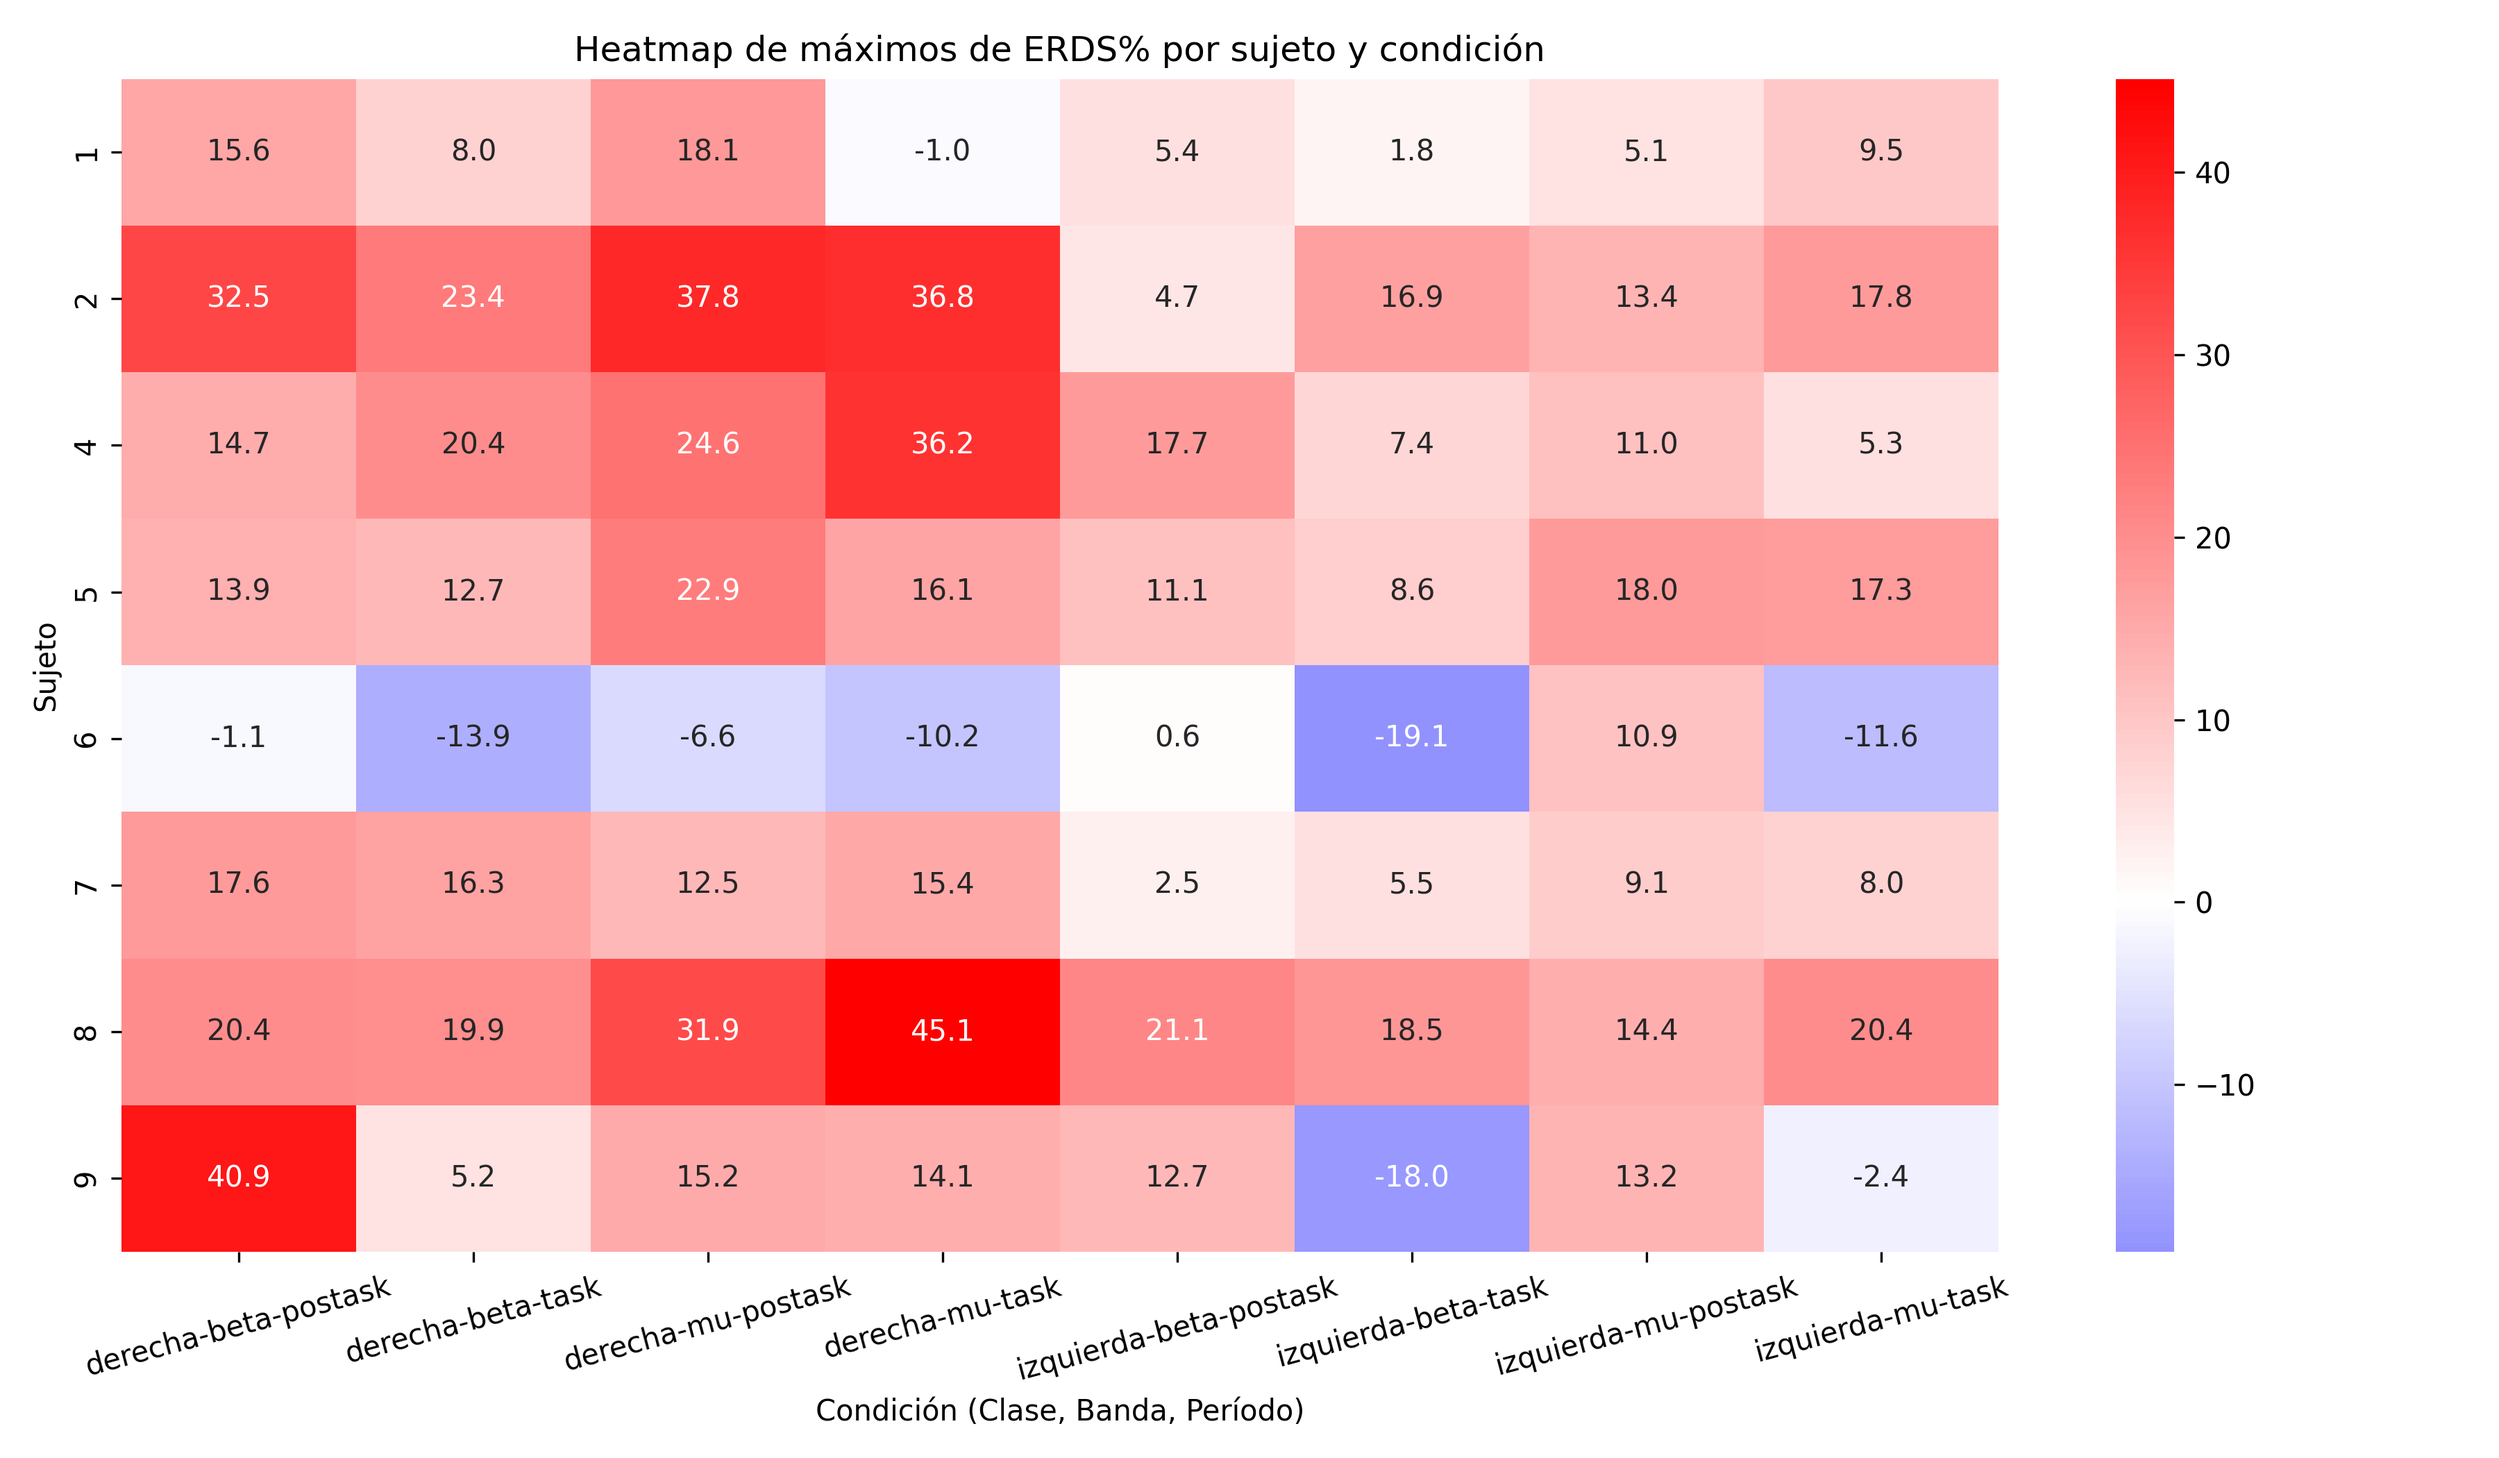
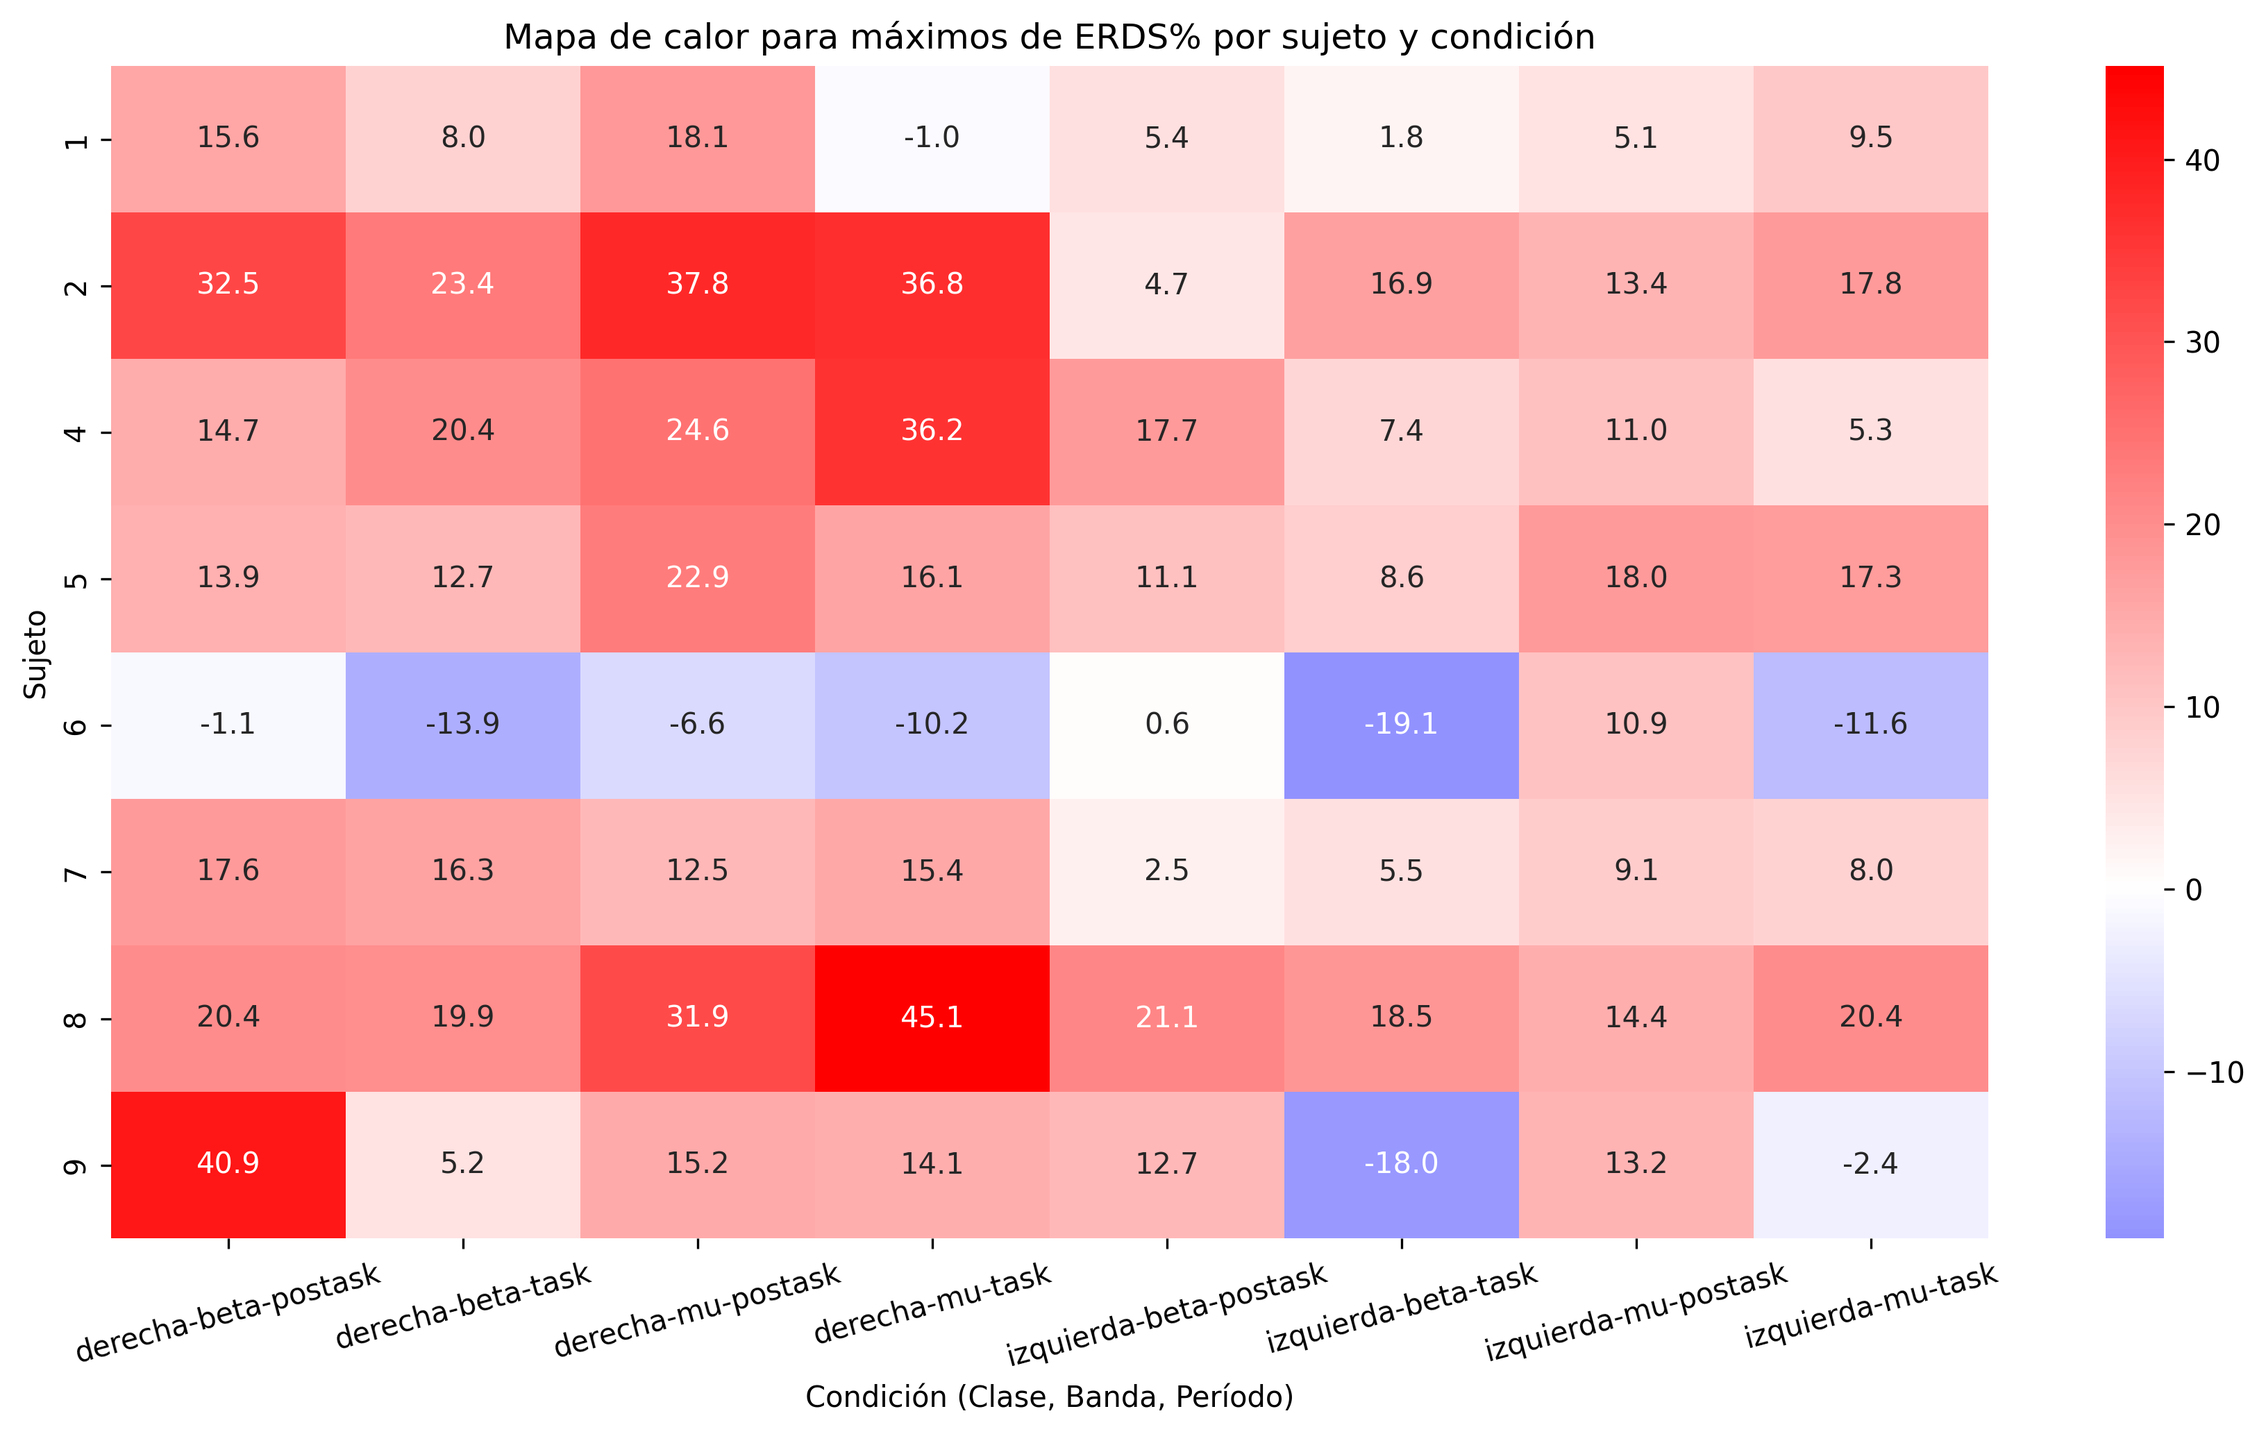
Se cambia título gráficos heatmap

diff --git a/codes/analisis_latencias.py b/codes/analisis_latencias.py
@@ -190,13 +190,13 @@ def generar_heatmap(df, medida_nombre, save=False, show=True, cmap="coolwarm", f
     )
     plt.figure(figsize=figsize)
     sns.heatmap(df_pivot, cmap=cmap, center=0, annot=True, fmt=".1f")
-    plt.title(f"Heatmap de {medida_nombre} de ERDS% por sujeto y condición")
+    plt.title(f"Mapa de calor para {medida_nombre} de ERDS% por sujeto y condición")
     plt.xlabel("Condición (Clase, Banda, Período)")
     plt.ylabel("Sujeto")
     plt.xticks(rotation=15) 
     plt.tight_layout()
     if save:
-        plt.savefig(f"{root_path}\\heatmap_erds_{medida_nombre}.png", dpi=300)
+        plt.savefig(f"{root_path}\\heatmap_erds_{medida_nombre}.png", dpi=300, bbox_inches='tight')
     if show:
         plt.show()
     else:
